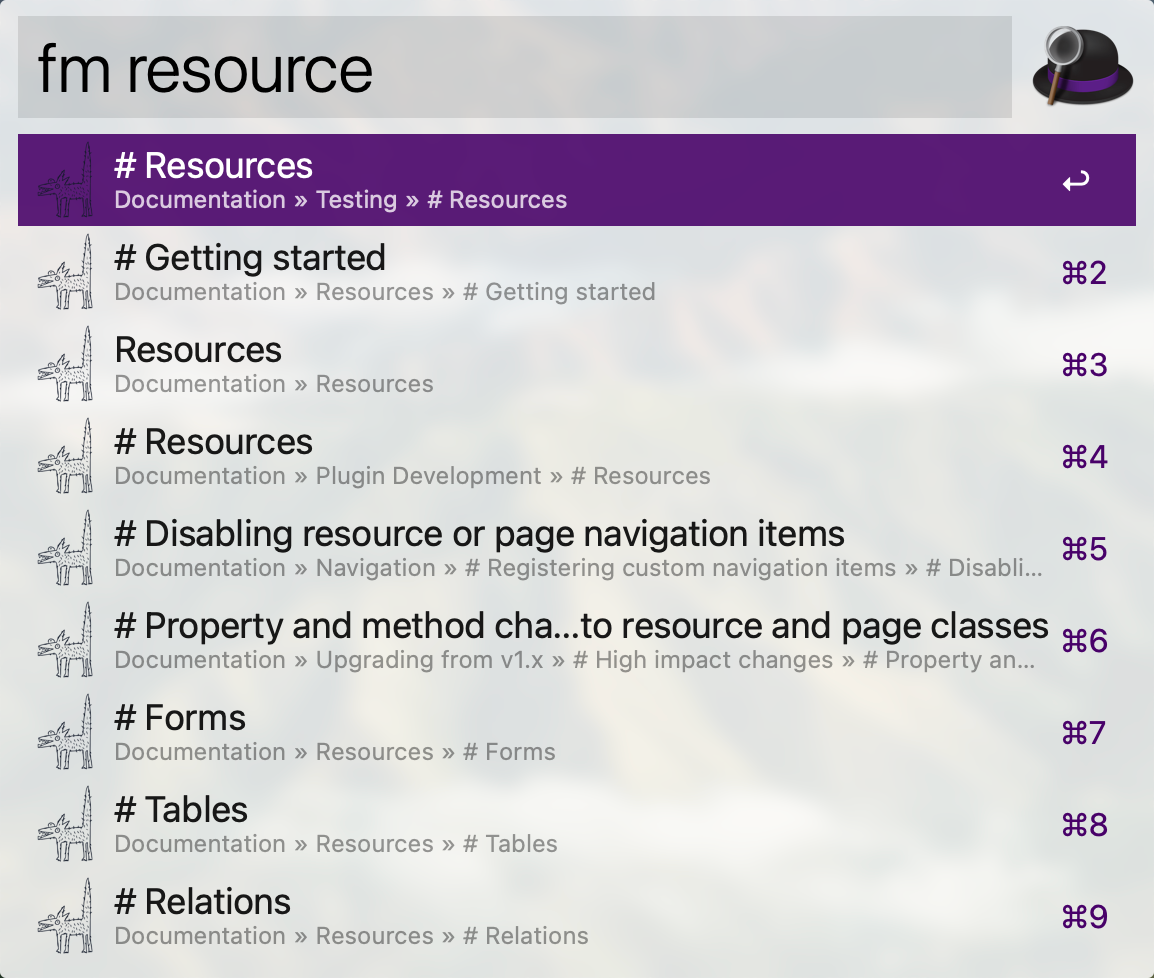
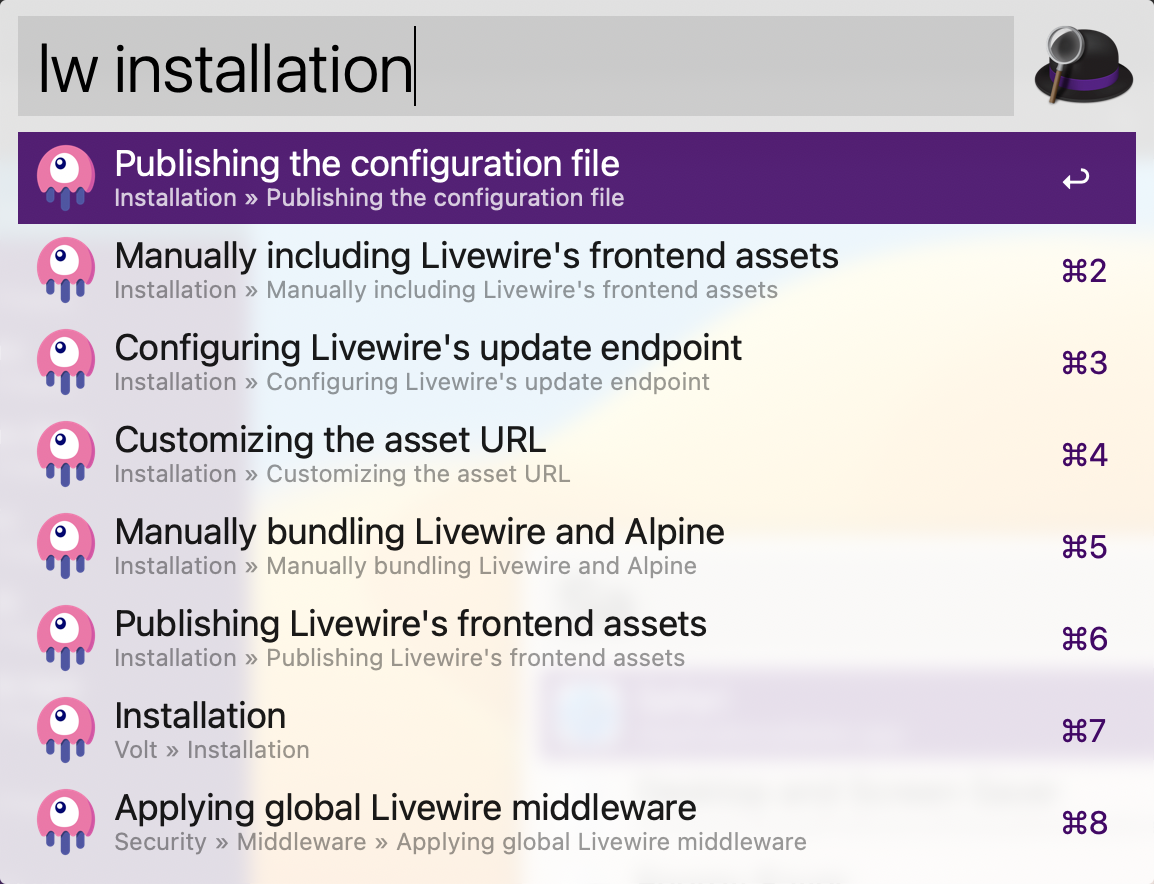
Initial Commit

diff --git a/livewire.php b/livewire.php
@@ -12,19 +12,34 @@ $query = $argv[1];
 $version = isset($argv[2]) ? $argv[2] : 'v3';
 
 $workflow = new Workflow;
-$algolia = Algolia::create('LMIKXMDI4P', '1e3d12b0b9c3a4db16cd896e83b9efa0');
 
-AlgoliaUserAgent::addCustomUserAgent('Filament Alfred Workflow', '3.0.0');
+if ($version === 'v1') {
+    $application_id = 'BH4D9OD16A';
+    $api_key = 'cec0554d960fa30b4b0b610f372a8636';
+    $index_name = 'livewire-framework';
+} elseif ($version === 'v2') {
+    $application_id = 'BH4D9OD16A';
+    $api_key = 'cec0554d960fa30b4b0b610f372a8636';
+    $index_name = 'livewire-framework';
+} else {
+    $application_id = '418WMK58D6';
+    $api_key = '4c5d415abd4c0c167f4368e679076c09';
+    $index_name = 'livewire-framework-3';
+}
 
-$results = getResults($algolia, 'filamentadmin', $query, $version);
+$algolia = Algolia::create($application_id, $api_key);
+
+AlgoliaUserAgent::addCustomUserAgent('Livewire Alfred Workflow', '1.0.0');
+
+$results = getResults($algolia, $index_name, $query, $version);
 
 if (empty($results)) {
     $workflow->result()
         ->title('No matches')
         ->icon('google.png')
-        ->subtitle('No match found in the docs. Search Google for: "Laravel+Filament+Admin+{$query}"')
-        ->arg('https://www.google.com/search?q=laravel+filament+admin+' . $query)
-        ->quicklookurl('https://www.google.com/search?q=laravel+filament+admin+' . $query)
+        ->subtitle('No match found in the docs. Search Google for: "Laravel+Livewire+{$query}"')
+        ->arg('https://www.google.com/search?q=laravel+livewire+' . $query)
+        ->quicklookurl('https://www.google.com/search?q=laravel+livewire+' . $query)
         ->valid(true);
 
     echo $workflow->output();

diff --git a/README.md b/README.md
@@ -1,6 +1,6 @@
-# Filament Docs Workflow for Alfred
+# Livewire Docs Workflow for Alfred
 
-An ultra-fast Filament docs search workflow for Alfred 4
+An ultra-fast Livewire docs search workflow for Alfred 4
 
 Adapted from [Alfred TailwindCSS Docs](https://github.com/clnt/alfred-tailwindcss-docs), which is adopted from [Alfred VueJS Docs](https://github.com/vmitchell85/alfred-vuejs-docs), which is adapted from [Alfred Laravel Docs](https://github.com/tillkruss/alfred-laravel-docs), Thanks [Till Krüss](https://twitter.com/tillkruss)!
 
@@ -11,28 +11,28 @@ Adapted from [Alfred TailwindCSS Docs](https://github.com/clnt/alfred-tailwindcs
 
 > **macOS Monterey:** PHP is no longer shipped with macOS, before attempting to use this workflow ensure you have installed the php binary via Homebrew.
 
-1. [Download the latest version](https://github.com/intrepidws/alfred-filament-docs/releases/download/v2.0.0/Filament.Docs.alfredworkflow)
+1. [Download the latest version](https://github.com/intrepidws/alfred-livewire-docs/releases/download/v1.0.0/Livewire.Docs.alfredworkflow)
 2. Install the workflow by double-clicking the `.alfredworkflow` file
 3. You can add the workflow to a category, then click "Import" to finish importing. You'll now see the workflow listed in the left sidebar of your Workflows preferences pane.
 
 ## Usage
 
-To search the [3.x docs](https://filamentphp.com/docs/3.x/panels/installation), just type `fm` (or `fm3`) followed by your search query.
+To search the [3.x docs](https://livewire.laravel.com/docs/quickstart), just type `lw` (or `lw3`) followed by your search query.
 
 ```
-fm3 <query>
+lw3 <query>
 ```
 
-To search the [2.x docs](https://filamentphp.com/docs/2.x/admin/installation), just type `fm2` followed by your search query.
+To search the [2.x docs](https://laravel-livewire.com/docs/2.x/quickstart), just type `lw2` followed by your search query.
 
 ```
-fm2 <query>
+lw2 <query>
 ```
 
-To search the [1.x docs](https://filamentphp.com/docs/1.x/admin/getting-started), just type `fm1` followed by your search query.
+To search the [1.x docs](https://laravel-livewire.com/docs/1.x/quickstart), just type `lw1` followed by your search query.
 
 ```
-fm1 <query>
+lw1 <query>
 ```
 
 Either press `⌘Y` to Quick Look the result, or press `<enter>` to open it in your web browser.
